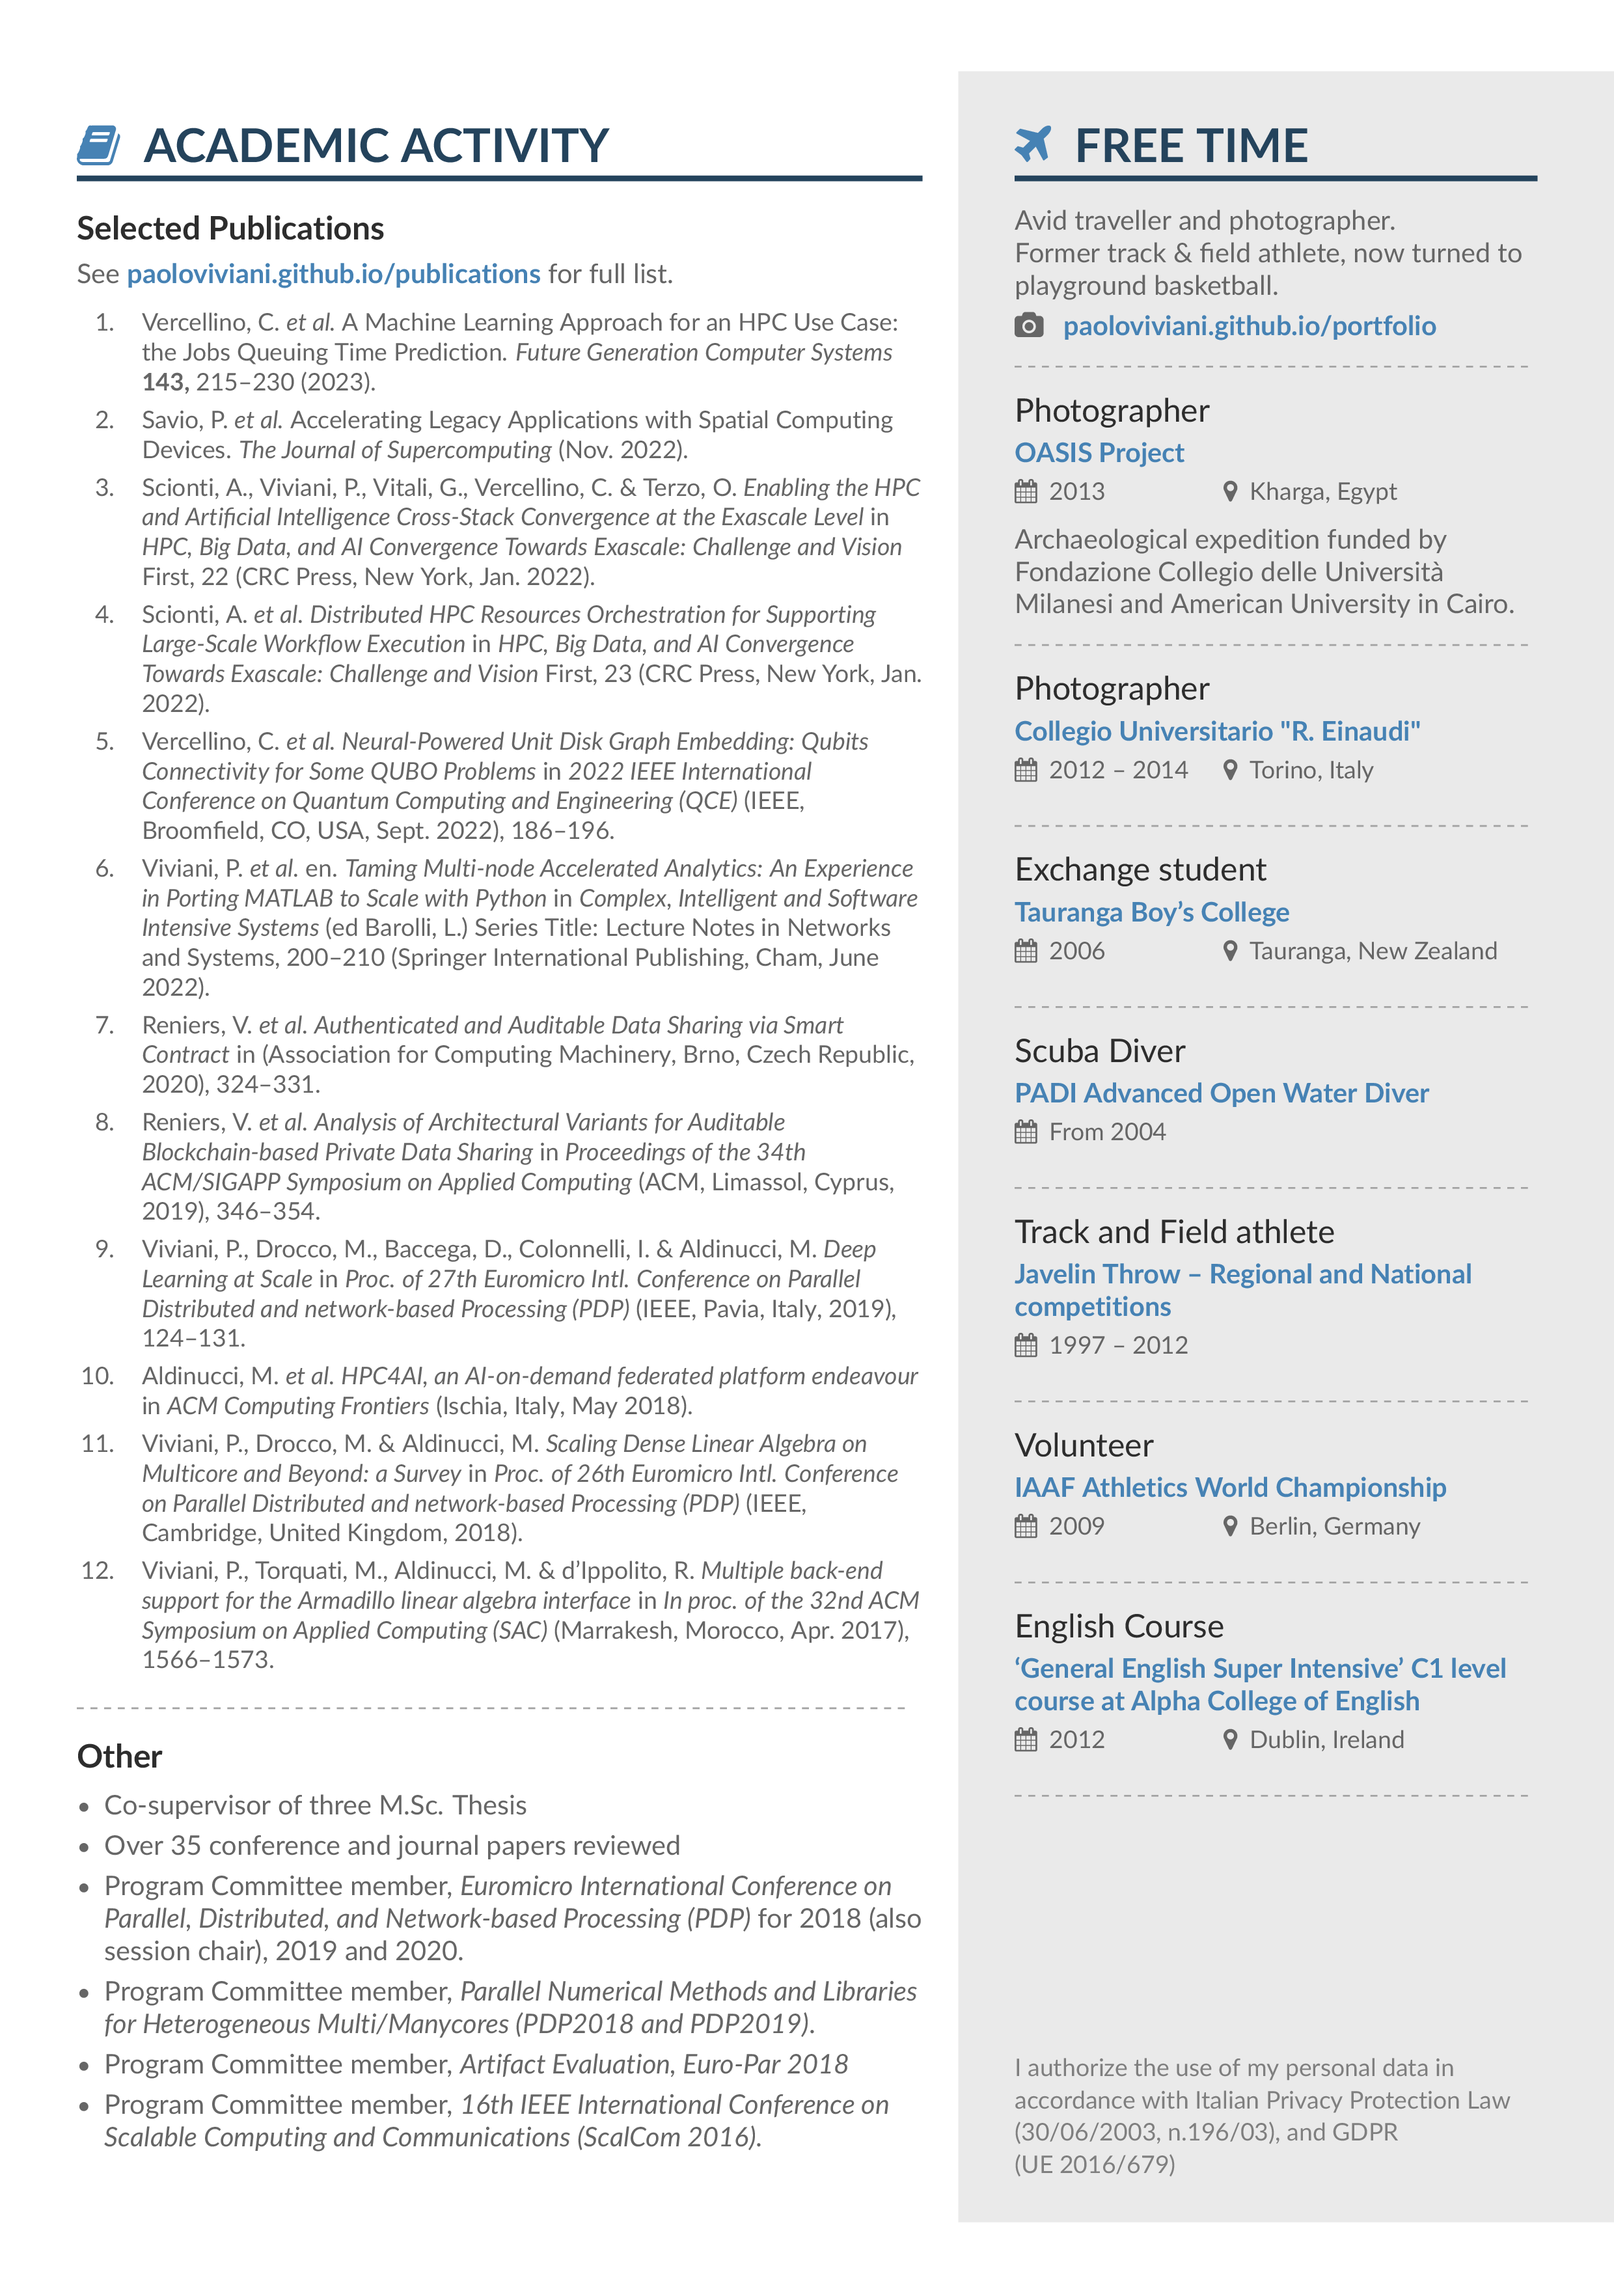
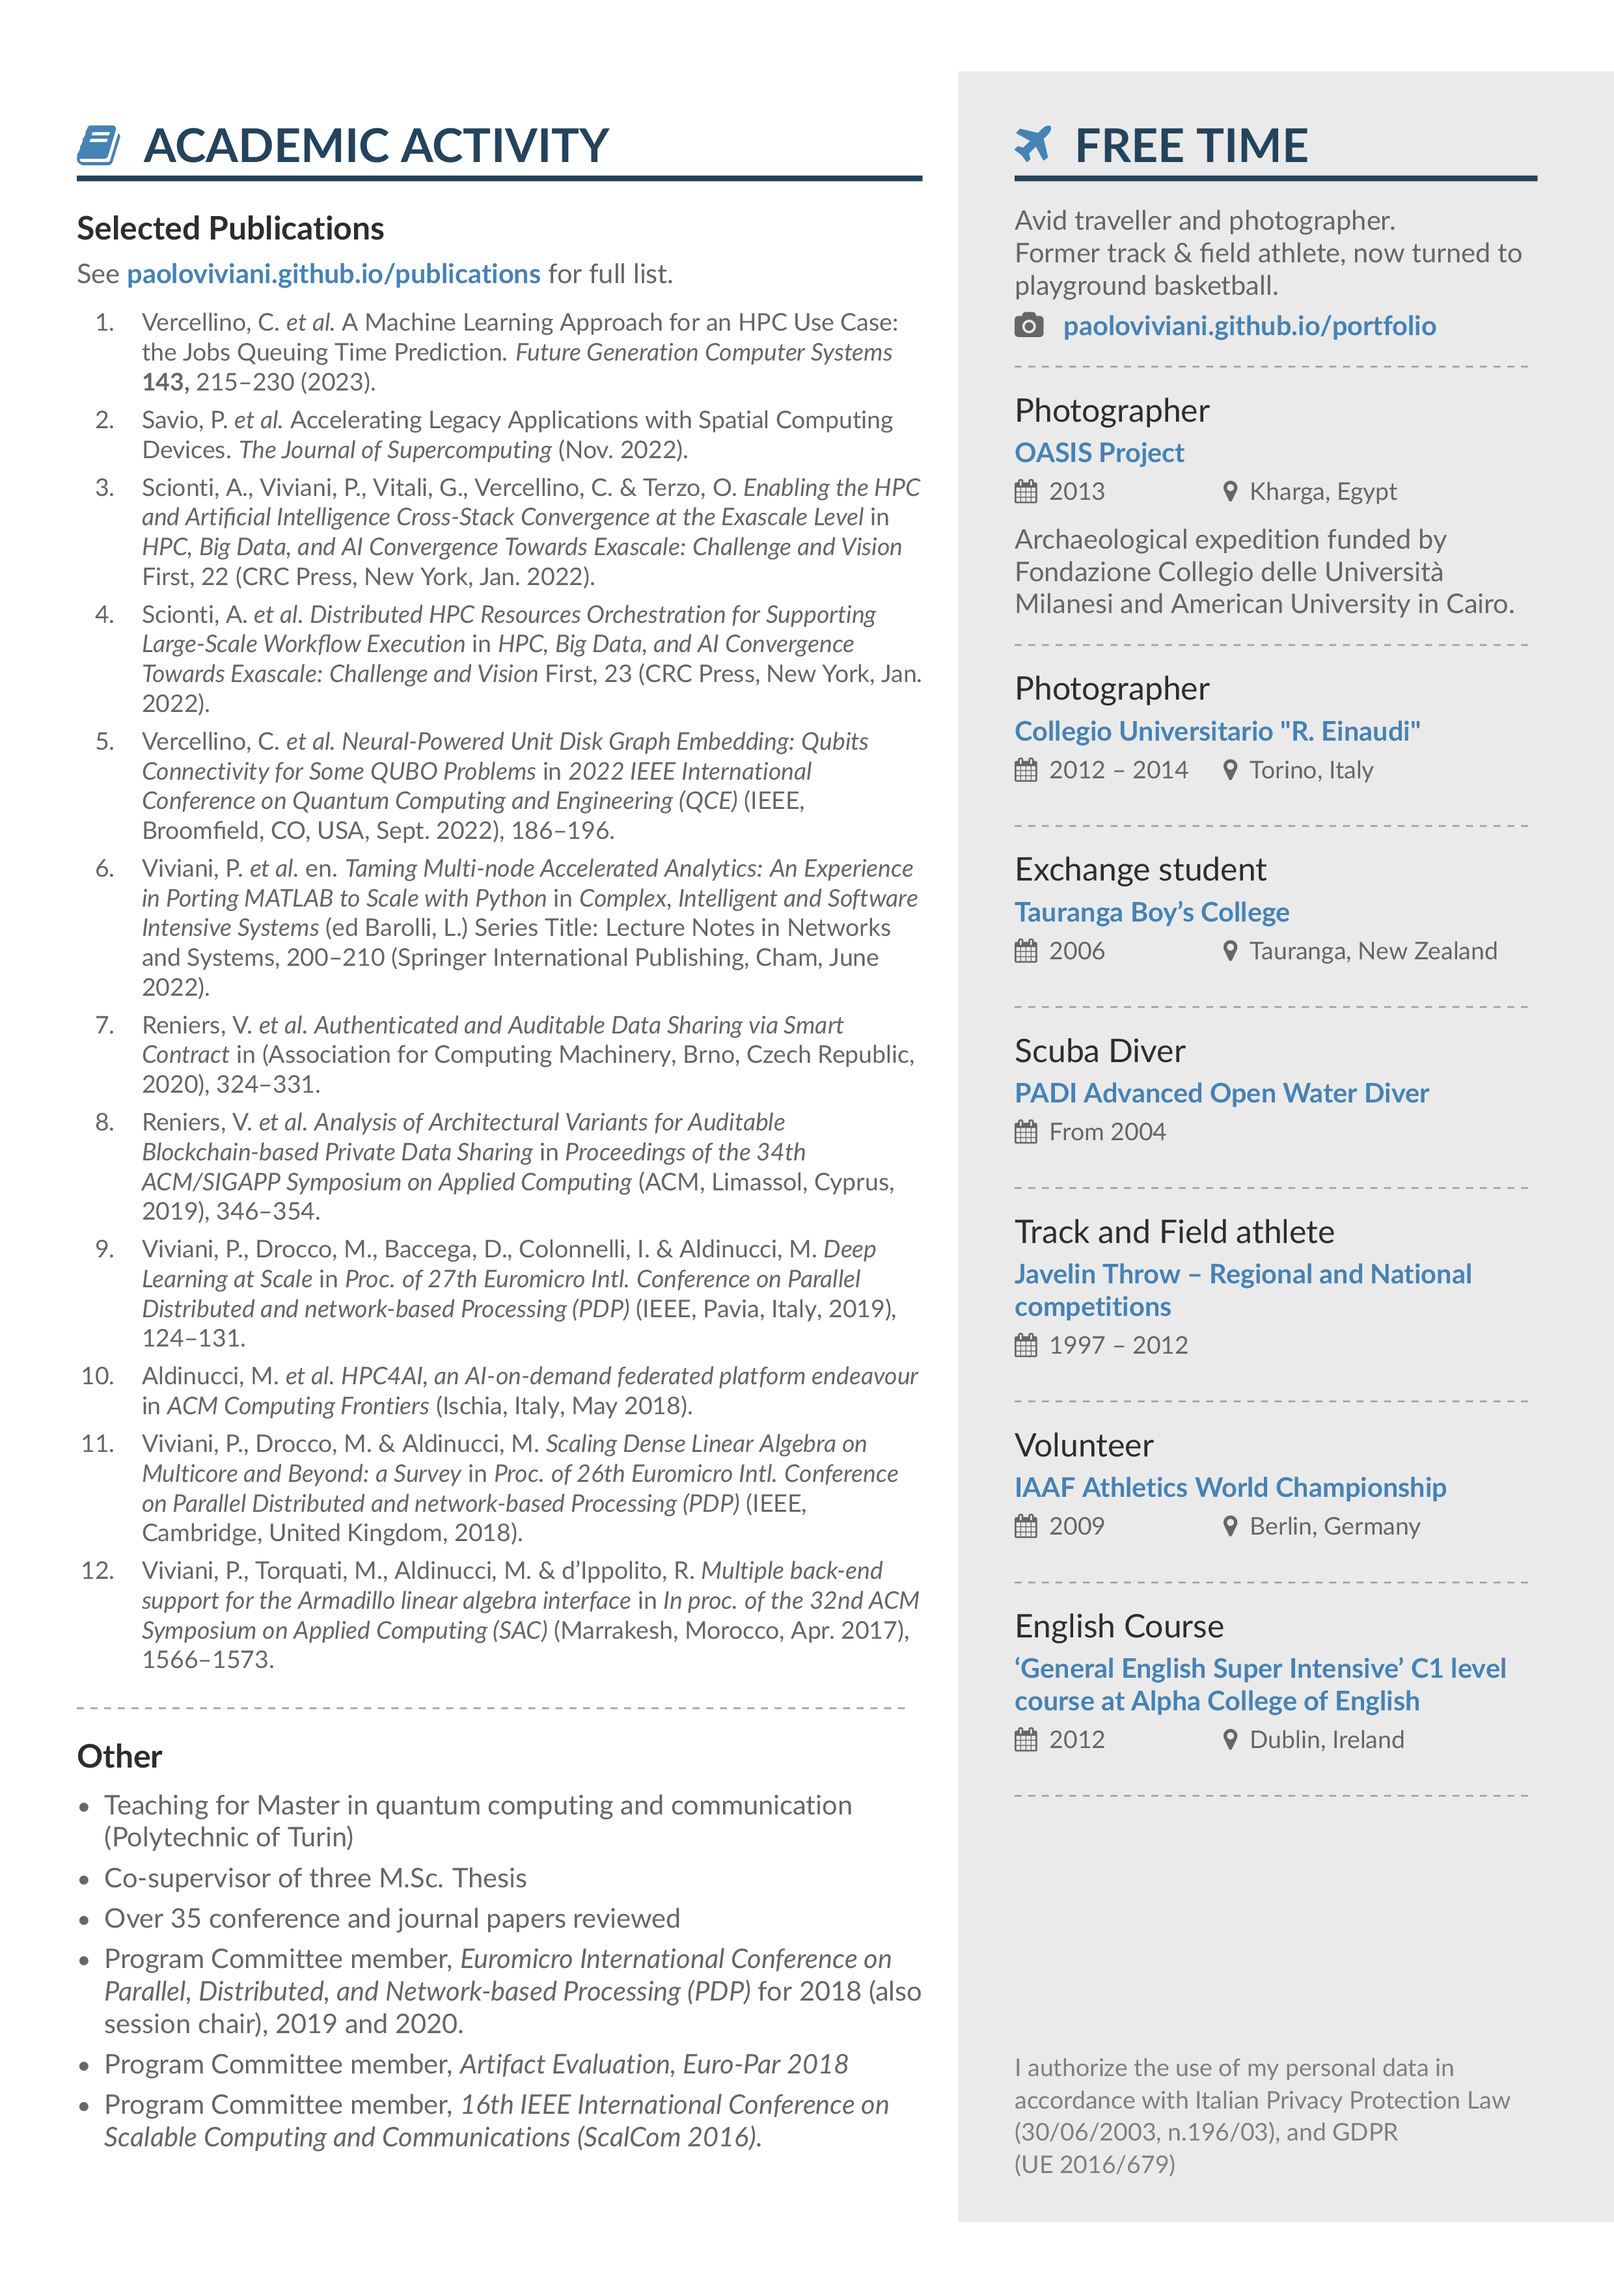
sync

Changed region(s): [[0.0621, 0.7768, 0.5589, 0.9011]]

diff --git a/_pages/05_teaching.md b/_pages/05_teaching.md
@@ -5,10 +5,14 @@ title: talks and courses
 nav: true
 order: 5
 ---
+### [Quantum computing lectures](https://didattica.polito.it/zxd/b5eda0a74558a342cf659187f06f746f/9dde3c1deee7c791026d6a0ac91322bb/e460136d06fca2b9e050c0828c3749ca?1658471882485)
+**March-May, 2023 -- Quantum communication and computing 2022-2023 II level Master**
+
 ### [Machine Learning – Current Challenges and Opportunities for Neuroprosthetics](https://www.b-cratos.eu/events/)
 **November 22nd, 2022 -- B-Cratos project monthly focus webinars**
 
 ### [Graph Coloring with Neutral Atoms](https://events.prace-ri.eu/event/1327/)
 **February 17th, 2022 -- 18th Advanced School on Parallel Computing, CINECA**
+
 ### [Quantum Computing: A hype-avoiding introduction](https://alpha.di.unito.it/seminars/)
 **June 7th, 2021 -- University of Torino, Parallel Computing Seminars**
